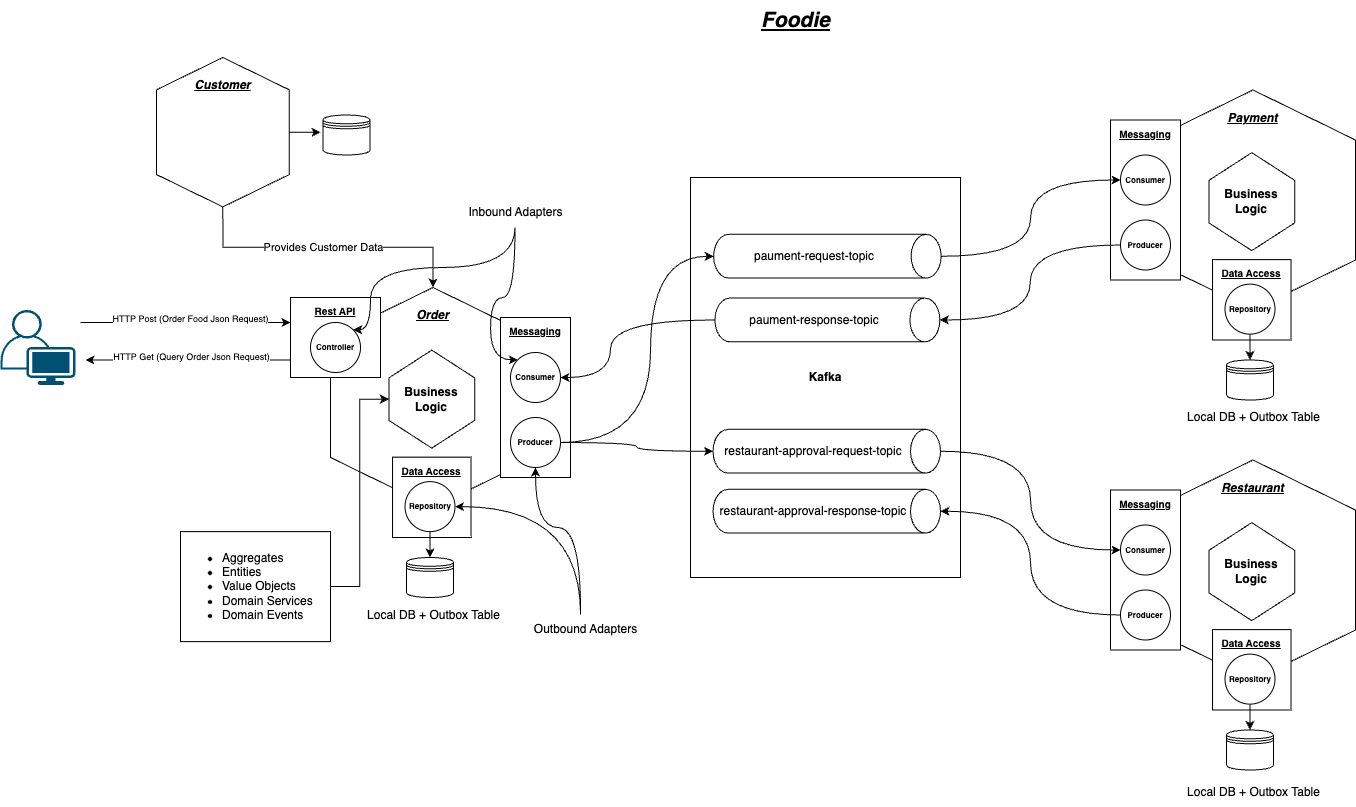
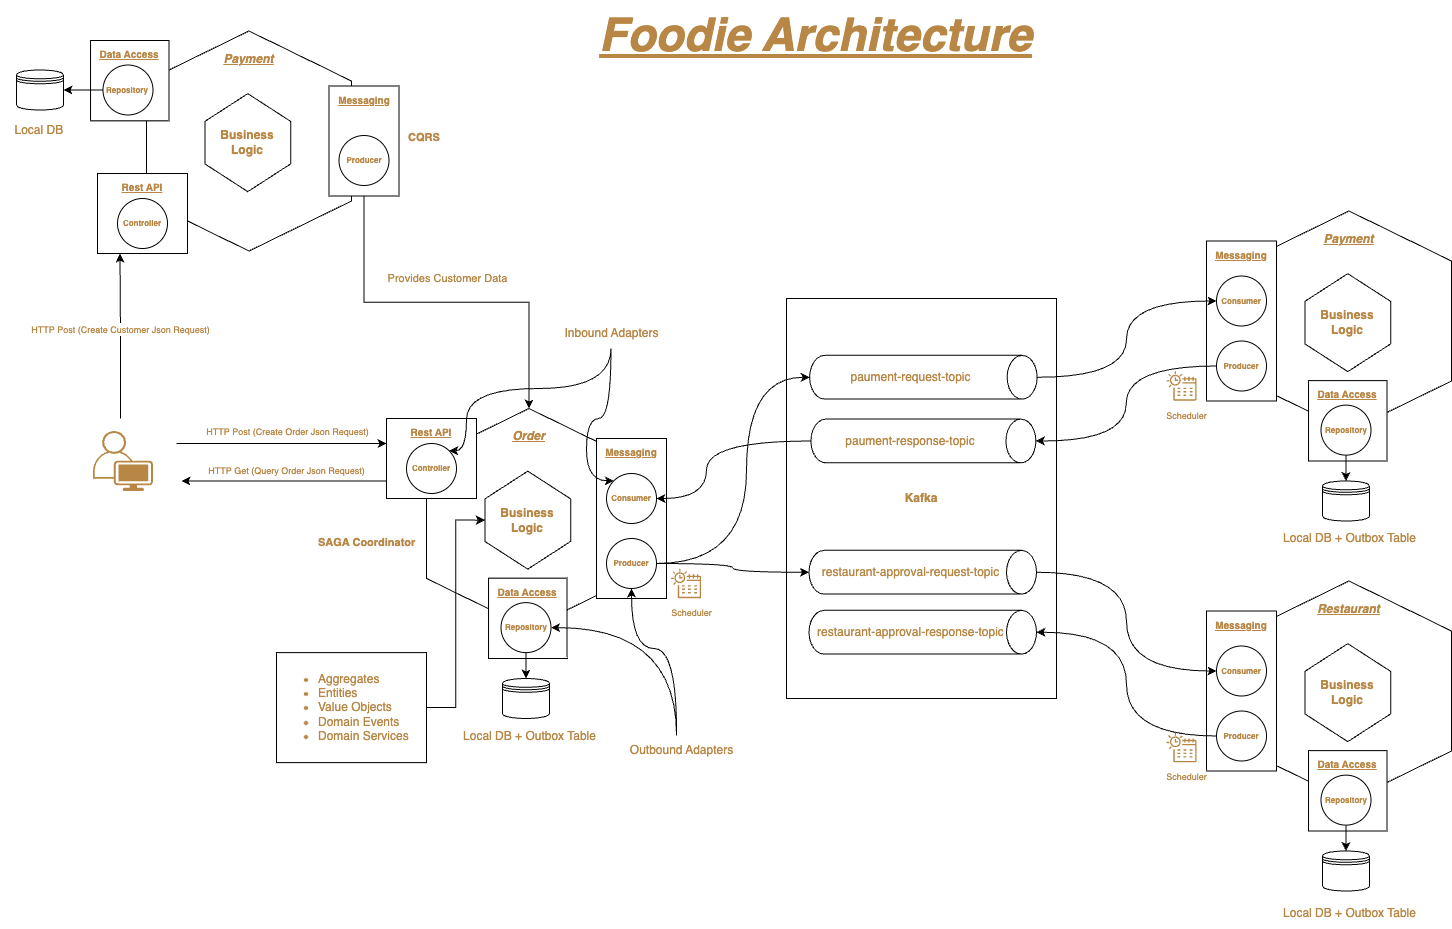
updated README.md & Architectural diagram.

diff --git a/README.md b/README.md
@@ -4,23 +4,23 @@ This project, named "Foodie", is a demonstration of various concepts in software
 
 ## Overview
 
-Foodie is a system that aims to provide a platform for food lovers to explore, discover, and order food. It consists of multiple microservices, each responsible for a specific aspect of the overall system. The project follows the principles of Clean Architecture and Domain-Driven Design to ensure a modular, scalable, and maintainable codebase.
+Foodie is a system that aims to provide a platform for food lovers to explore, discover, and order food. It consists of multiple microservices, each responsible for a specific aspect of the overall system. The project follows the principles of  Hexagonal Clean Architecture and Domain-Driven Design to ensure a modular, scalable, and maintainable codebase.
 
 ## High Level Architecture
 ![HLA](foodie-architecture.png)
 ## Concepts Used
 
-- Clean Architecture
+- Hexagonal Clean Architecture with Ports & Adapters.
 - DDD (Domain-Driven Design)
-- SAGA (Saga Pattern)
-- Outbox Pattern
-- Kafka
+- SAGA Pattern for distributed transaction and data consistency (process & rollback with compensating tx) 
+- Outbox Pattern for pulling Outbox table with scheduler (Saga Status)
+  - Ensure idempotency using outbox in each service.
+  - Prevent concurrency issues with optimistic locks & DB constraints.
+  - Updating Saga & Order status for each operation. 
+- CQRS Pattern with Event Sourcing.
 - Maven Multi-Module
+- Kafka
+- Kubernetes 
 
-## Docker
-
-```sh
-docker run --name postgres -p 5432:5432 -e POSTGRES_USER=admin -e POSTGRES_PASSWORD=nimda -d postgres:15-alpine
-```
 
 

diff --git a/order/README.md b/order/README.md
@@ -1,4 +1,1 @@
 # Order Domain
-
-## Domain Model Overview
-![Order Domain](order-domain.png)
